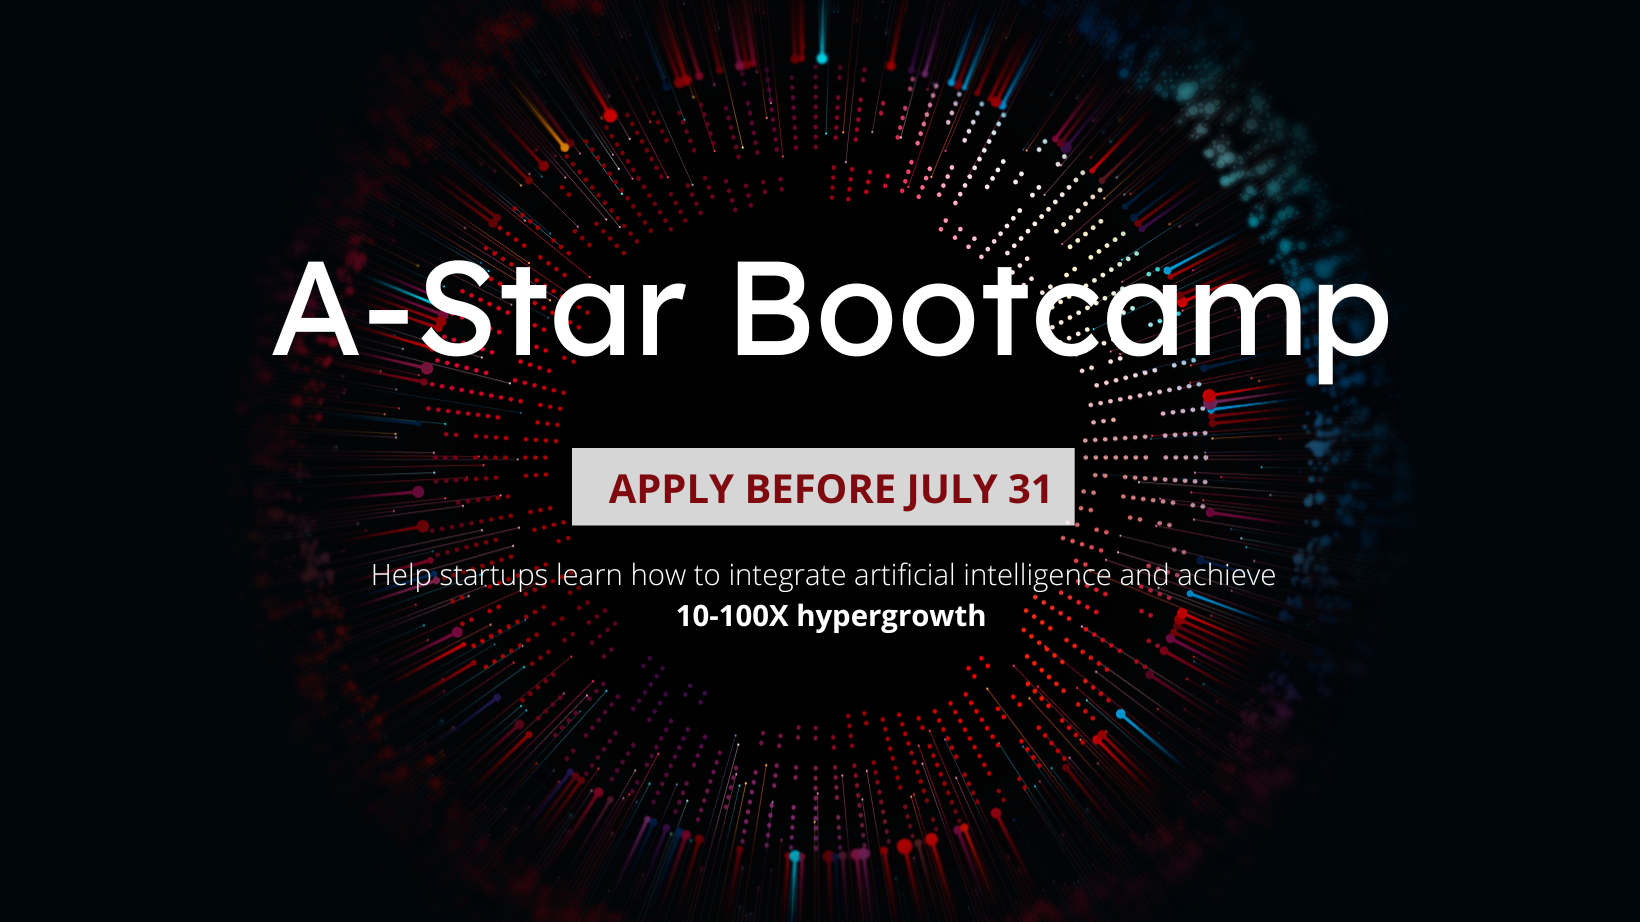
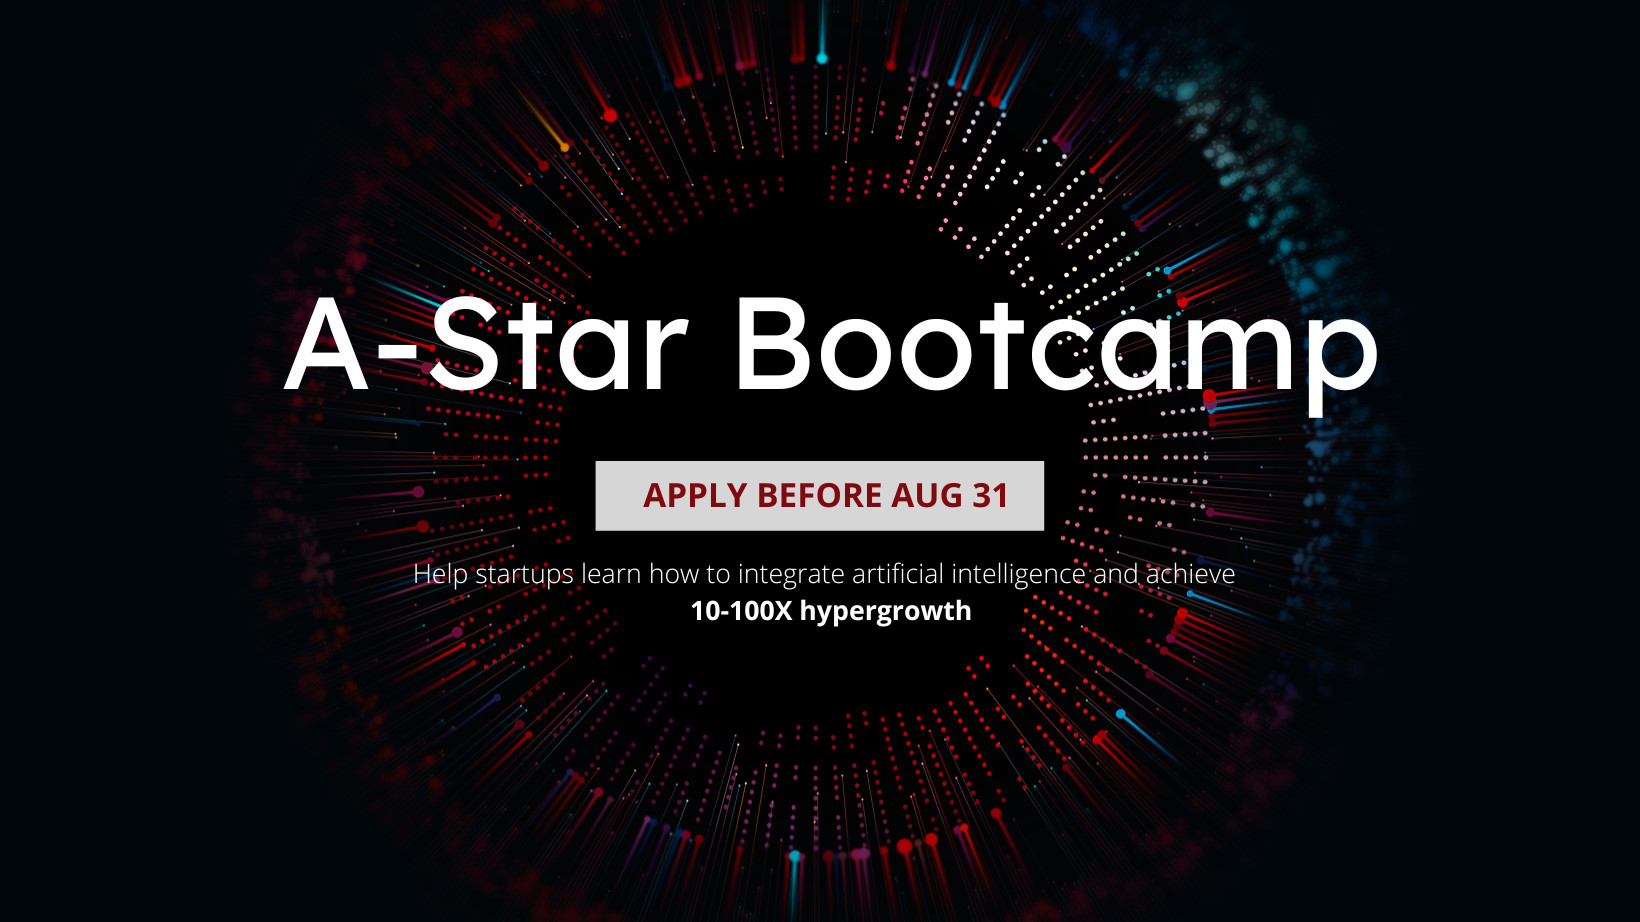
update deadline

Changed region(s): [[0.1555, 0.2733, 0.8707, 0.4555], [0.3421, 0.4859, 0.653, 0.577], [0.2177, 0.6074, 0.7774, 0.6985]]

diff --git a/public/index.html b/public/index.html
@@ -25,7 +25,7 @@
       property="og:description"
       content="Are you ready to be the next-gen AI company in Vietnam?"
     />
-    <meta property="og:image" content="thumb.png?v=3" />
+    <meta property="og:image" content="thumb.png?v=4" />
 
     <!-- Twitter -->
     <meta property="twitter:card" content="summary_large_image" />
@@ -35,7 +35,7 @@
       property="twitter:description"
       content="Are you ready to be the next-gen AI company in Vietnam?"
     />
-    <meta property="twitter:image" content="thumb.png?v=3" />
+    <meta property="twitter:image" content="thumb.png?v=4" />
     
     <!-- Global site tag (gtag.js) - Google Analytics -->
     <script
